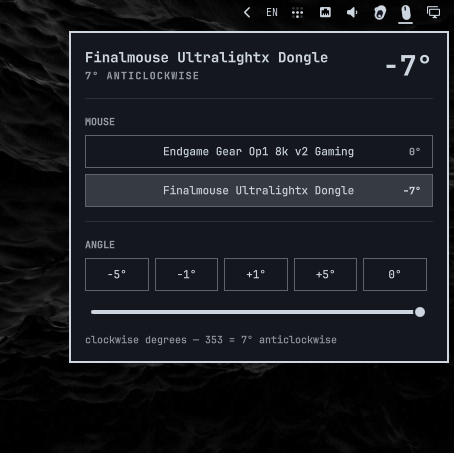
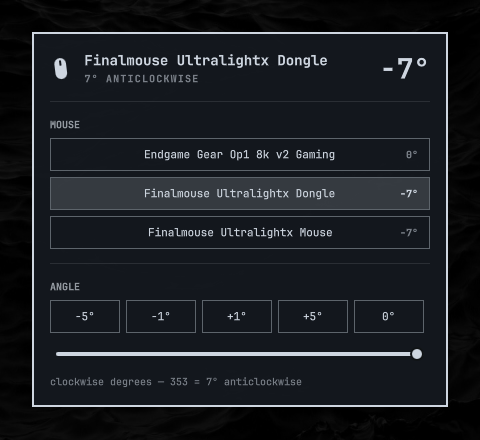
docs: panel summon flow, keys, scripting; clean screenshot

diff --git a/README.md b/README.md
@@ -4,14 +4,11 @@ Per-mouse sensor angle for [Omarchy](https://omarchy.org/): rotates a mouse's
 pointer input by whole degrees via Hyprland/libinput device rotation — the
 driver setting vendors gate behind Windows software, for any mouse.
 
+A standalone panel, not a bar widget: summoned from the omarchy menu
+(**Trigger → Hardware → Mouse Angle**) and shown as a centered card on a dimmed
+backdrop. Nothing sits in the toolbar.
+
 ![panel](screenshot.png)
-
-A standalone panel (no bar icon): summoned from the omarchy menu
-(**Hardware → Mouse Angle**) or with
-
-```sh
-omarchy-shell shell summon io.github.kaz.omarchy-mouse-angle
-```
 
 ## Install
 
@@ -22,15 +19,15 @@ git clone https://github.com/kazedayo/omarchy-mouse-angle \
   ~/.config/omarchy/plugins/io.github.kaz.omarchy-mouse-angle
 ```
 
-Add to `~/.config/hypr/hyprland.lua`, then `hyprctl reload`:
+Apply the generated rotation at Hyprland start — add to
+`~/.config/hypr/hyprland.lua`, then `hyprctl reload`:
 
 ```lua
 local require_optional = require("default.hypr.require_optional")
 require_optional.module("hypr.mouse-angle")
 ```
 
-Optional: an omarchy menu entry in
-`~/.config/omarchy/extensions/omarchy-menu.jsonc`:
+Optional menu entry in `~/.config/omarchy/extensions/omarchy-menu.jsonc`:
 
 ```jsonc
 "trigger.hardware.mouse-angle": {"icon":"","label":"Mouse Angle","action":"omarchy-shell shell summon io.github.kaz.omarchy-mouse-angle"},
@@ -38,11 +35,24 @@ Optional: an omarchy menu entry in
 
 ## Usage
 
-Pick a mouse, then adjust with the buttons, slider, or arrow keys. Degrees are
-clockwise, 0–359 — 353 is 7 degrees anticlockwise. Settings are keyed by the
-mouse's hardware id (`bus:vendor:product[:serial]`), so they survive renames
-and re-plugging, and apply immediately, persisting to the generated
-`~/.config/hypr/mouse-angle.lua` (edit by hand, then `hyprctl reload`).
+Pick a mouse, then adjust with the step buttons, the slider, or arrow keys
+(`←`/`→` ±1°, `↑`/`↓` ±5°, `Tab` switches mice, `Esc` closes). Degrees are
+clockwise, 0–359 — 353 is 7 degrees anticlockwise. Changes apply immediately
+and persist to the generated `~/.config/hypr/mouse-angle.lua` (edit by hand,
+then `hyprctl reload`).
+
+Settings are keyed by the mouse's hardware id (`bus:vendor:product[:serial]`),
+so they survive renames, re-plugging, and identical-model duplicates.
+
+## Scripting
+
+```sh
+omarchy-shell shell summon io.github.kaz.omarchy-mouse-angle   # open
+omarchy-shell shell toggle io.github.kaz.omarchy-mouse-angle   # toggle
+```
+
+While open, the direct IPC target answers
+`omarchy-shell io.github.kaz.omarchy-mouse-angle open|close|toggle|query`.
 
 ## Development
 
